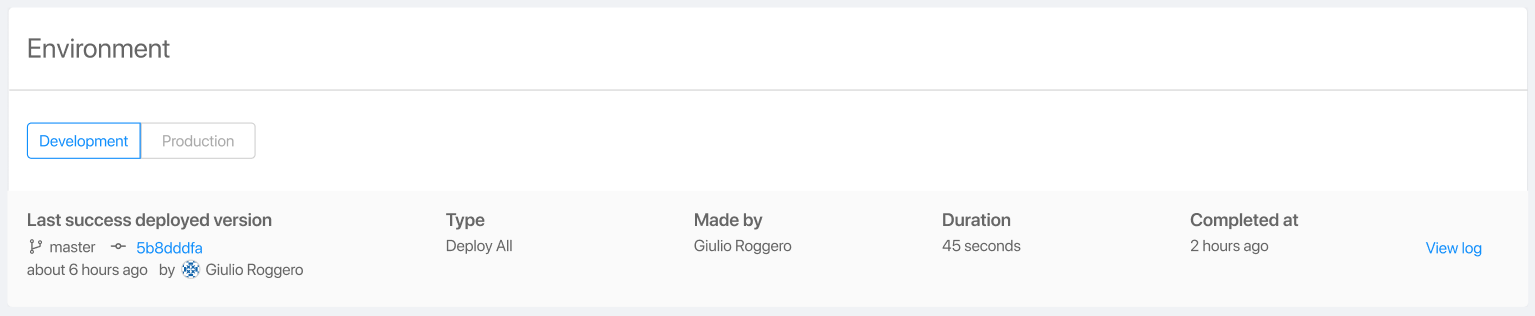
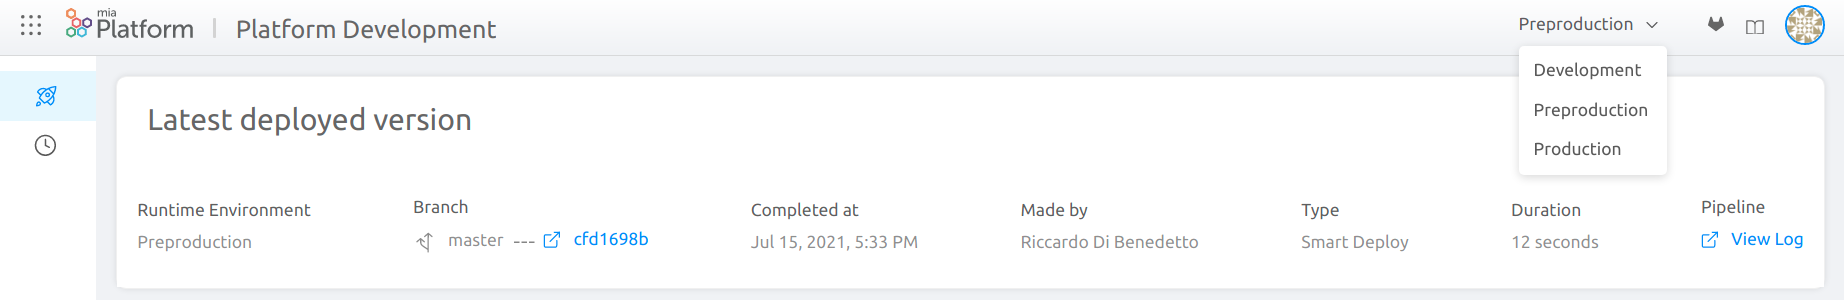
edit(RJN-75): runtime environment selection on topbar

diff --git a/docs/development_suite/deploy/deploy.md b/docs/development_suite/deploy/deploy.md
@@ -16,18 +16,15 @@ When a user enters the Deploy Area, they are automatically led to Deploy Section
 
 ![Deploy](img/Deploy.gif)
 
-In this Section, you can select in which runtime environment you want to release your project configurations and which branch to deploy.
-You will also be able to start the deployment process from this section.
+This section is tied to a specific environment, which can be changed using the dropdown menu on the right side of the topbar. Once you have selected in which runtime environment you want to release your project configurations and which branch to deploy, you will be able to start the deployment process.
 
 Let us see in detail how it works.
 
 ### Latest deployed version
 
-The first card will let you choose the runtime environment in which you want to release your configuration.
+The first card will let you see a recap of the latest deployed version on the selected runtime environment.
 
 ![Environment](img/deploy-select-env.png)
-
-Once you have selected your target runtime environment, you will be able to see all the details regarding the last release in that runtime environment.
 
 The information you will see in this card are:
 
